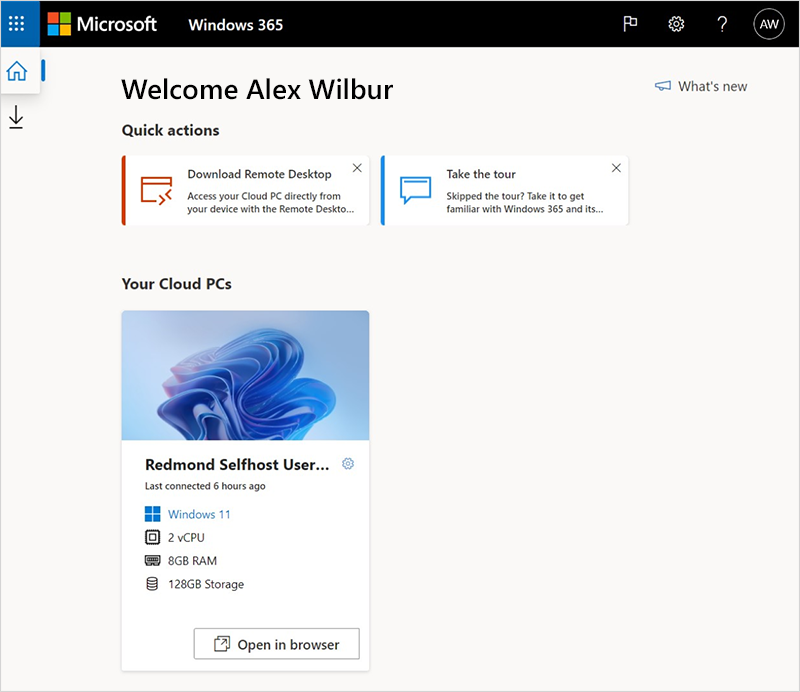
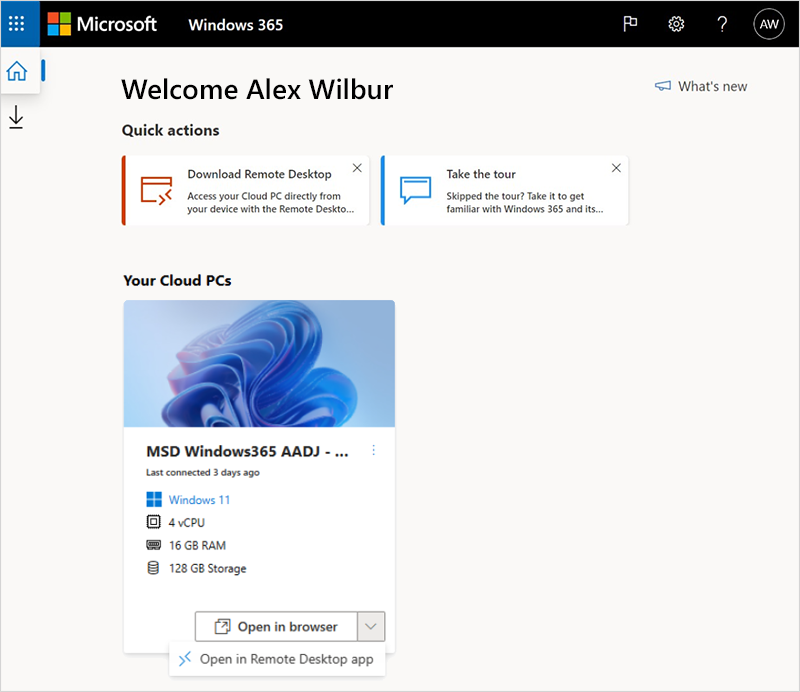
42849050 - open in RDP

Changed region(s): [[0.125, 0.3945, 0.5, 0.8497], [0.1562, 0.8801, 0.5, 0.9711]]

diff --git a/Windows365/end-user-access-cloud-pc.md b/Windows365/end-user-access-cloud-pc.md
@@ -7,7 +7,7 @@ keywords:
 author: ErikjeMS  
 ms.author: erikje
 manager: dougeby
-ms.date: 07/27/2022
+ms.date: 01/31/2023
 ms.topic: how-to
 ms.service: windows-365
 ms.subservice:
@@ -55,7 +55,7 @@ On their Windows 365 home page, users see the Cloud PCs they have access to in t
 
 ![Windows 365 home.](business/media/get-started-windows-365-business/cloud-pc-home.png)
 
-Users can select **Open in browser** to open their Cloud PC.
+Users can select **Open in browser** or **Open in Remote Desktop app** to open their Cloud PC.
 
 > [!NOTE]  
 > Mobile devices aren’t currently supported for using a browser to open Cloud PC. The Remote Desktop app is supported.
